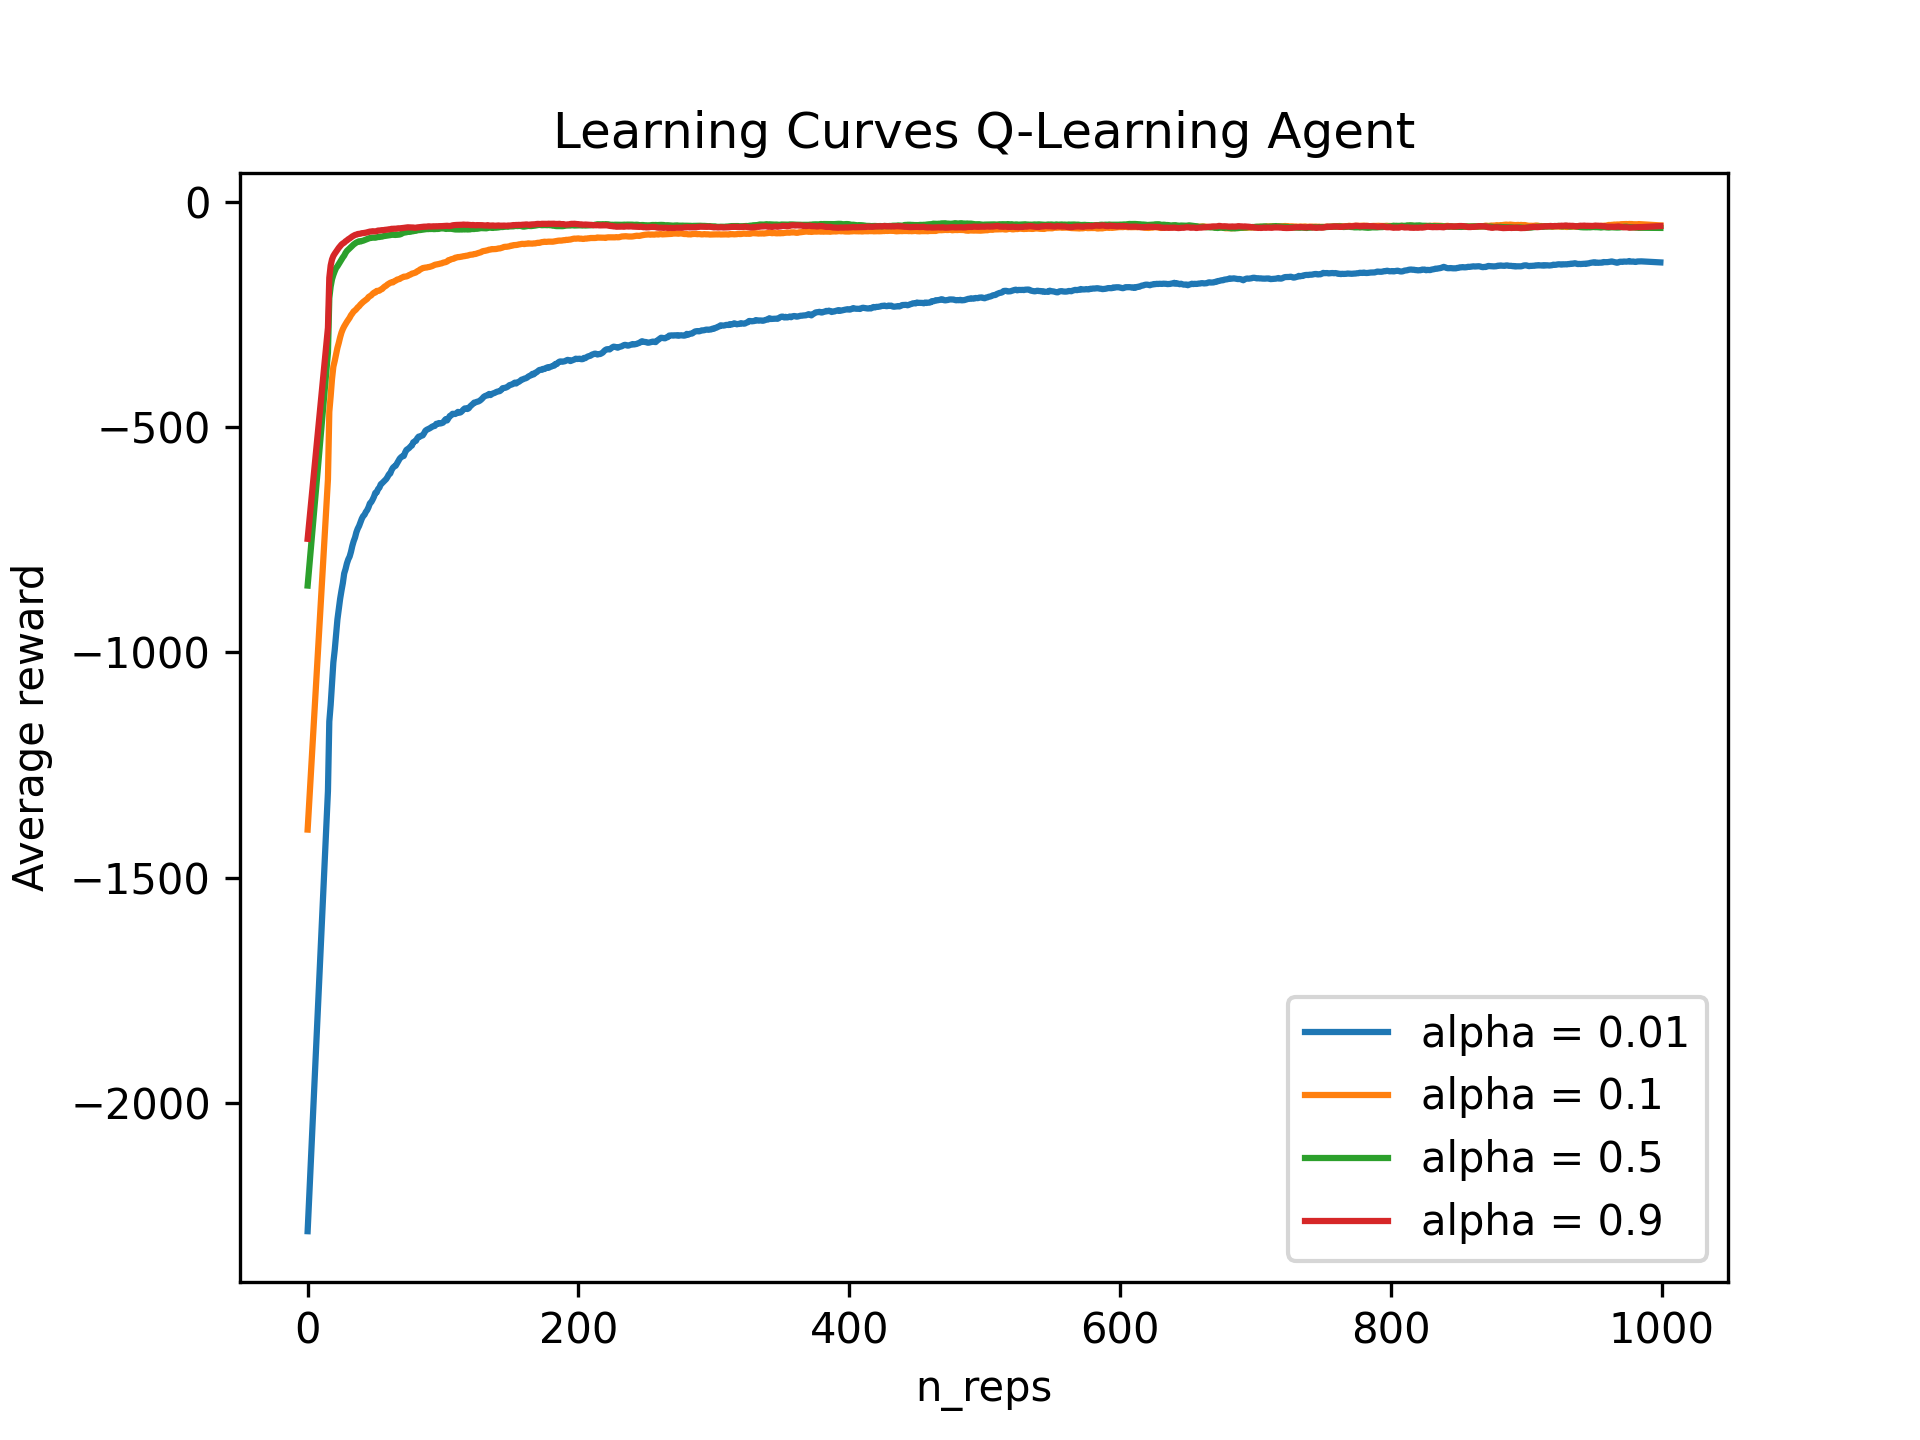
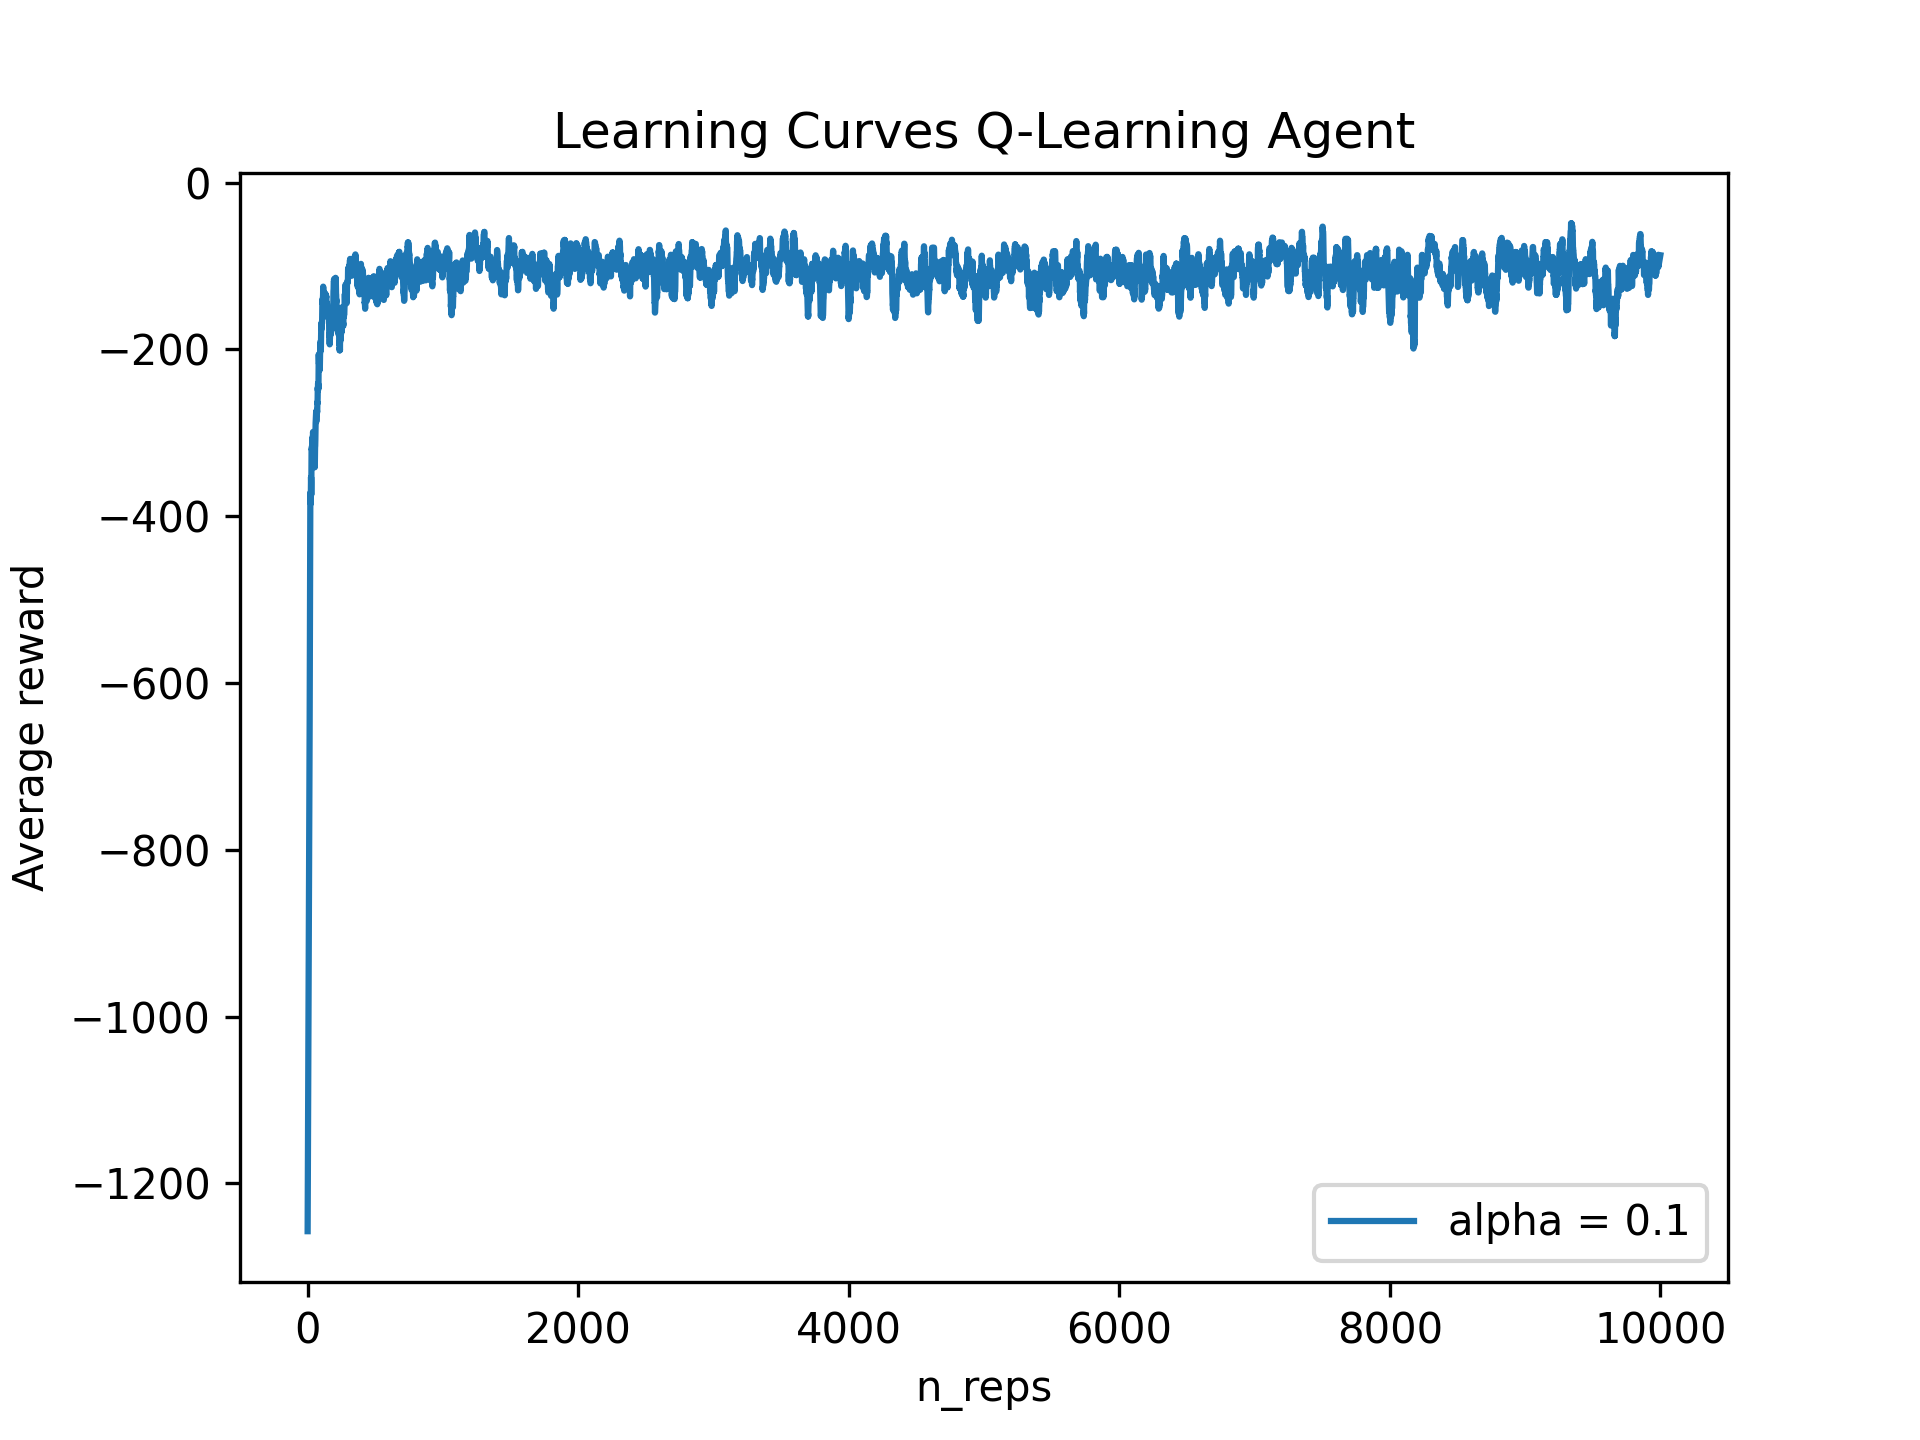
Working SARSA + QA Experiment

diff --git a/ShortCutExperiment.py b/ShortCutExperiment.py
@@ -16,12 +16,12 @@ def run_repetitions_QA( n_actions, n_episodes, alpha , epsilon, n_rep, n_states,
             c_state = env.state()                                                #current state
             a = pi.select_action(c_state)                                        #select action
             r = env.step(a)                                                      #make move -> get reward
-            Q = pi.update(c_state, env.state(),a,r)                                  #update policy
+            q = pi.update(c_state, env.state(),a,r)                                  #update policy
             rewards[episode] += r                                                #store reward into rewards
 
         all_rewards[rep][episode] = rewards[episode]
     
-    return (np.average(all_rewards, 0), Q)                                             #return the average over all the rewards
+    return (np.average(all_rewards, 0), q)                                             #return the average over all the rewards
 
 def run_repetitions_SARSA( n_episodes, all_rewards,rewards, pi,rep):
 
@@ -42,66 +42,78 @@ def run_repetitions_SARSA( n_episodes, all_rewards,rewards, pi,rep):
     return (np.average(all_rewards, 0), q)                                             #return the average over all the rewards
 
  
-def experiment_SARSA(n_actions, n_episodes, n_rep, epsilon, smoothing_window, n_states):
+def experiment_SARSA(n_actions, n_episodes, n_rep, epsilon, smoothing_window, n_states, alpha = None):
     plot = LearningCurvePlot('Learning Curves SARSA Agent')
     plot2 = LearningCurvePlot('Learning Curves SARSA Agent Final Run')
-    alphas = [0.01, 0.1, 0.5, 0.9]
+    if alpha == None:
+        alphas = [0.01, 0.1, 0.5, 0.9]
+    else:
+        alphas = [alpha]
+         
     average_returns_Q = []
     all_rewards = np.zeros((n_rep, n_episodes))                    #2d-array to store all the rewards in of the n_repetitions * n_episodes.
     for alpha in alphas:
         for rep in range(n_rep):                                                     #for each repetition:
-            print(f"Now loading alpha: {alpha}, done {rep} / {n_rep} reps", end = '\r')
+            print(f"SARSA Now loading alpha: {alpha}, done {rep + 1} / {n_rep} reps", end = '\r')
             rewards = np.zeros(n_episodes)                                             # initialize rewards
             pi = SARSAAgent(n_actions = n_actions, n_states = n_states,
                                 alpha = alpha, epsilon = epsilon)                            # initialize policy  
             if rep == (n_rep -1):
+                print('\n')
                 final_run_tuple = run_repetitions_SARSA(n_episodes, all_rewards, rewards, pi, rep)
                 final_run = final_run_tuple[0]
                 plot2.add_curve((final_run), label= f'{alpha = }')
 
             rewards_tuple = run_repetitions_SARSA( n_episodes, all_rewards,rewards,pi,rep)
-            rewards = rewards_tuple[0]
-            average_returns_Q.append(np.average(rewards)) 
+            average_returns_Q.append(np.average(rewards_tuple[0])) 
 
 
         plot.add_curve((average_returns_Q))
         plot.add_curve(smooth(rewards,smoothing_window), label = f'{alpha = }')
 
     plot.save("SARSA_1_average.png")
-    plot2.save("SARSA_1_final_run.png")
-    print_greedy_actions(final_run_tuple[1])
+    #plot2.save("SARSA_1_final_run.png")
 
-def experiment_QA( n_actions, n_episodes, n_rep, epsilon, smoothing_window, n_states):
+    if len(alphas) == 1:
+        print(f"QA (alpha: {alpha}) plot for {n_episodes} episodes and {n_rep} rep")
+        print_greedy_actions(rewards_tuple[1])
+
+def experiment_QA( n_actions, n_episodes, n_rep, epsilon, smoothing_window, n_states, alpha = None):
     
     plot = LearningCurvePlot('Learning Curves Q-Learning Agent')
     plot2 = LearningCurvePlot('Learning Curves Q-Learning Agent Final Run')
-    alphas = [0.01, 0.1, 0.5, 0.9]
-    best_return_Q = 0.0
-    best_run_Q = [0 for x in range(n_rep)]                                   
+    if alpha == None:
+        alphas = [0.01, 0.1, 0.5, 0.9]
+    else:
+        alphas = [alpha]
     average_returns_Q = []
     all_rewards = np.zeros((n_rep, n_episodes))                    #2d-array to store all the rewards in of the n_repetitions * n_episodes.
     for alpha in alphas:
         for rep in range(n_rep):                                                     #for each repetition:
-            print(f"Now loading alpha: {alpha}, done {rep} / {n_rep} reps", end = '\r')
+            print(f"QA: Now loading alpha: {alpha}, done {rep + 1} / {n_rep} reps", end = '\r')
             rewards = np.zeros(n_episodes)                                             # initialize rewards
             pi = QLearningAgent(n_actions = n_actions, n_states = n_states,
                                 alpha = alpha, epsilon = epsilon)                            # initialize policy  
             if rep == (n_rep -1):
+                print("\n")
                 final_run_tuple = run_repetitions_QA( n_actions, n_episodes, alpha, epsilon, n_rep, n_states, all_rewards,rewards,pi,rep)
                 final_run = final_run_tuple[0]
                 plot2.add_curve((final_run), label= f'{alpha = }')
 
             rewards_tuple = run_repetitions_QA( n_actions, n_episodes, alpha, epsilon, n_rep, n_states, all_rewards,rewards,pi,rep)
-            rewards = rewards_tuple[0]
-            average_returns_Q.append(np.average(rewards)) 
+            average_returns_Q.append(np.average(rewards_tuple[0])) 
 
 
         plot.add_curve((average_returns_Q))
         plot.add_curve(smooth(rewards,smoothing_window), label = f'{alpha = }')
 
-    plot.save("QA_2_average.png")
-    plot2.save("QA_2_final_run.png")
-    print_greedy_actions(final_run_tuple[1])
+    if len(alphas) == 1:
+        print(f"QA (alpha: {alpha}) plot for {n_episodes} episodes and {n_rep} rep")
+        print_greedy_actions(rewards_tuple[1])
+
+
+    plot.save("QA_1_average.png")
+    #plot2.save("QA_2_final_run.png")
     
 
 def print_greedy_actions(Q):
@@ -118,14 +130,15 @@ def print_greedy_actions(Q):
     print(print_string.tobytes().decode('utf-8'))
 
 def run_experiment( n_actions, n_episodes, n_rep, epsilon, smoothing_window, n_states):
-    #experiment_QA(n_actions, n_episodes, n_rep, epsilon, smoothing_window, n_states)
+    experiment_QA(n_actions, n_episodes, n_rep, epsilon, smoothing_window, n_states)
+    experiment_QA(n_actions, 10000, 1, epsilon, smoothing_window, n_states, alpha = 0.1)
     experiment_SARSA(n_actions, n_episodes, n_rep, epsilon, smoothing_window, n_states)
+    experiment_SARSA(n_actions, 10000, 1, epsilon, smoothing_window, n_states, alpha = 0.1)
     
 if __name__ == '__main__':
     # experiment settings
     n_episodes = 1000
     n_rep = 100
-    alpha = 0.1
     epsilon = 0.1
     smoothing_window = 31
     n_actions = 4
